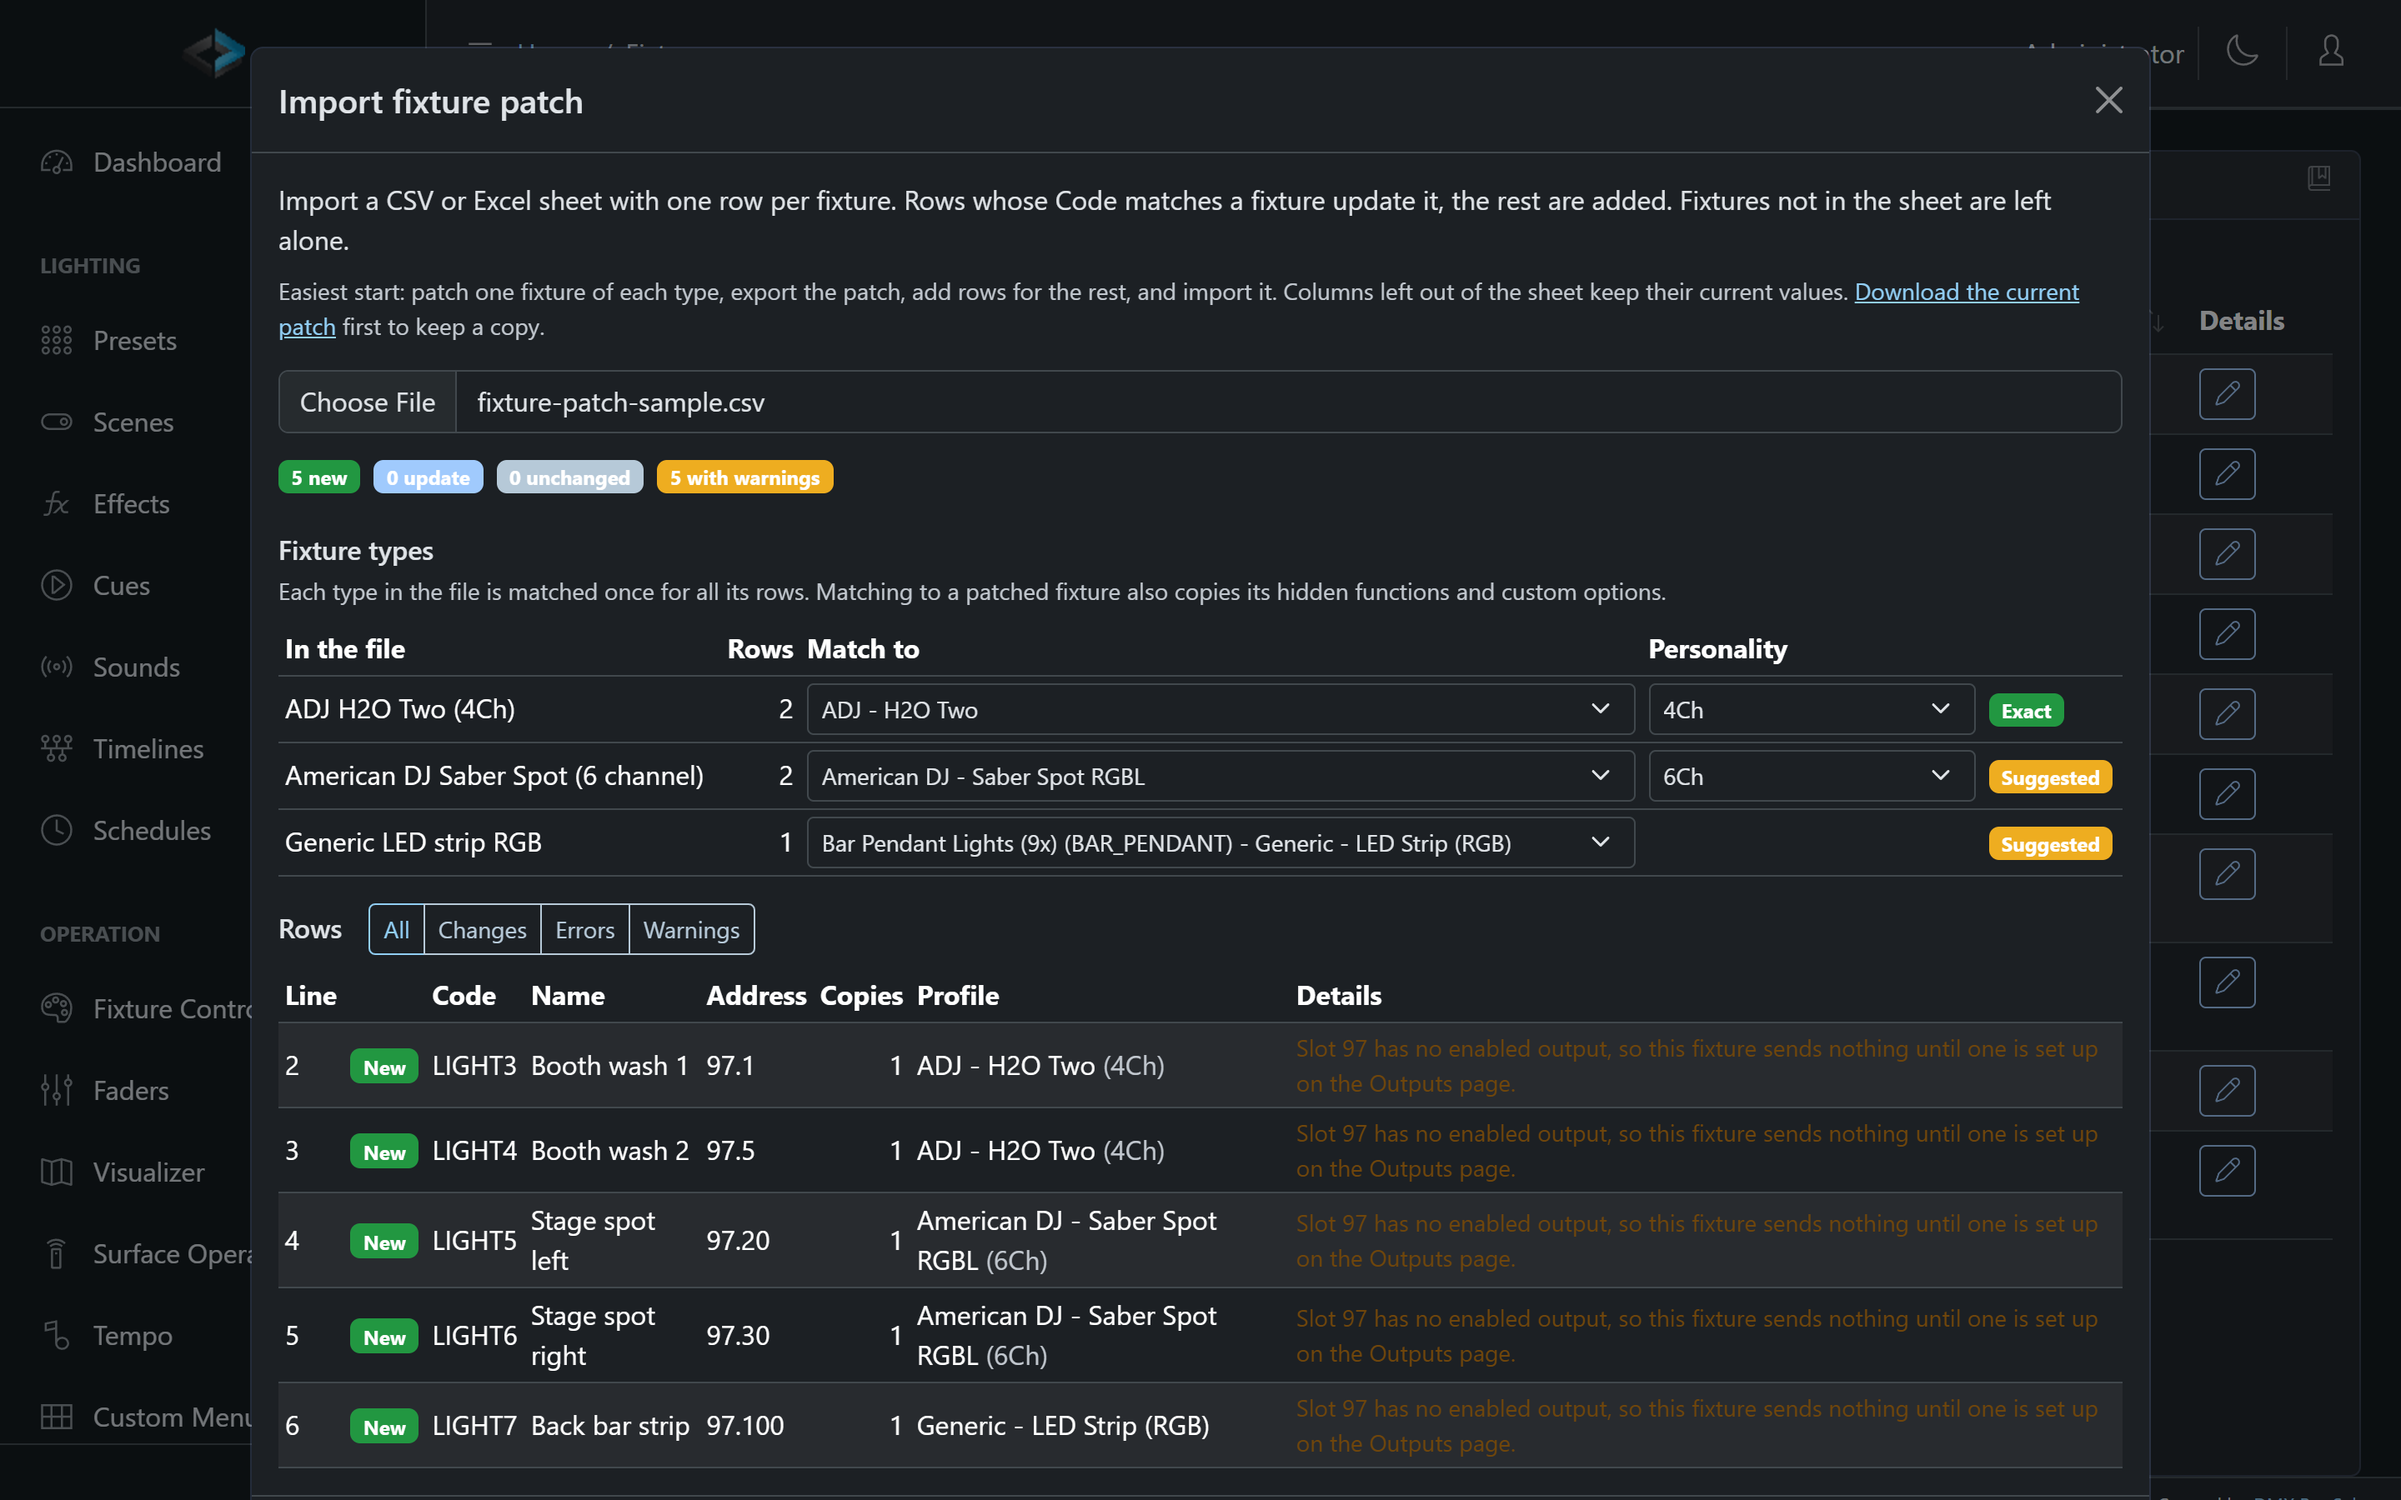
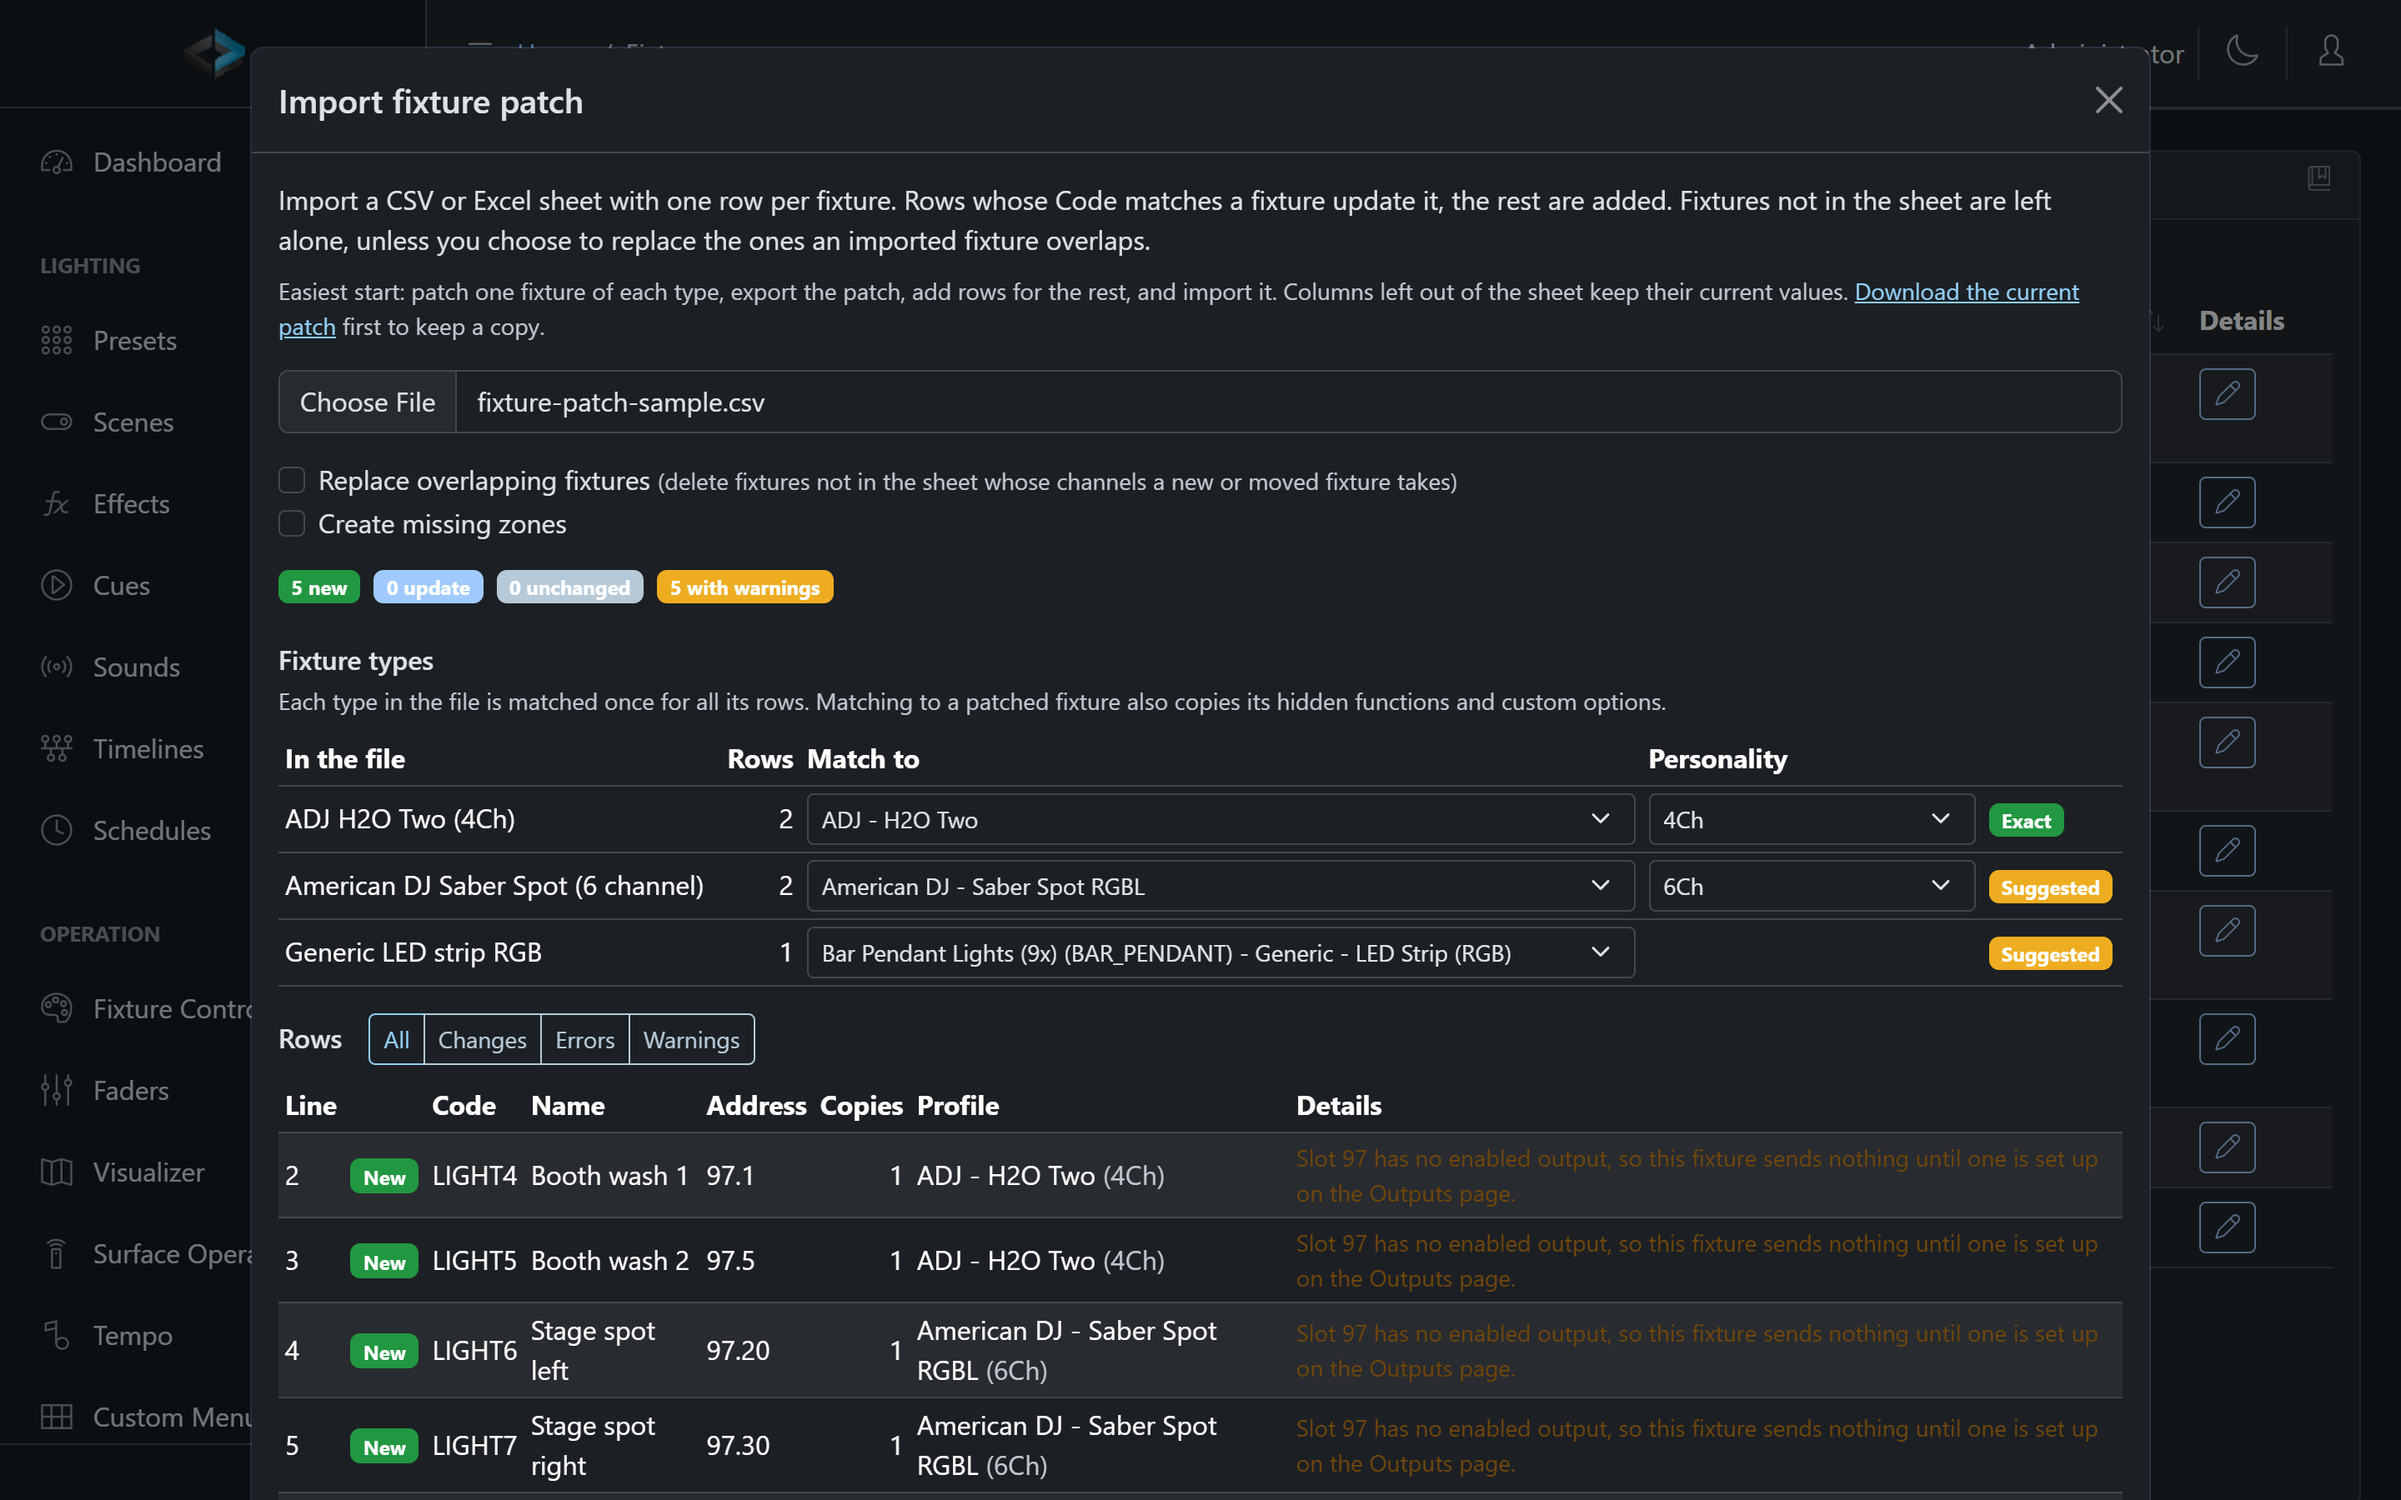
Fixture patch import: Import options section (Replace overlapping fixtures, Create missing zones), forgiving zone name matching and the Zone Name column, release notes row including trimming names and codes on save, and a new dialog screenshot with the options.

diff --git a/src/content/docs/dmx-core-100/lighting/fixture-setup.md b/src/content/docs/dmx-core-100/lighting/fixture-setup.md
@@ -115,7 +115,7 @@ You can export your fixture patch from **Lighting Setup > Fixtures** in the Web 
 - **Excel** - Full export with formatting and totals, suitable for documentation
 - **CSV** - For spreadsheet tools and data processing (UTF-8, opens correctly in Excel)
 
-Each fixture is one row, sorted by address: code, name, enabled, slot and start channel, personality, copies, zone, manufacturer and profile, profile code, copy trims, hidden functions and custom options. The **End Slot**, **End Ch**, **Ch/Fixture** and **Warning** columns are worked out for you (where the fixture ends, and which fixtures share channels); they are only there to read and are ignored on import.
+Each fixture is one row, sorted by address: code, name, enabled, slot and start channel, personality, copies, zone name, manufacturer and profile, profile code, copy trims, hidden functions and custom options. The **End Slot**, **End Ch**, **Ch/Fixture** and **Warning** columns are worked out for you (where the fixture ends, and which fixtures share channels); they are only there to read and are ignored on import.
 
 The export is complete, so it can be edited and [imported](#importing-fixtures) again, on the same unit or another one.
 
@@ -139,15 +139,22 @@ The quickest way to build the sheet is often from your own patch:
 
 - A row whose **Code** matches an existing fixture **updates** that fixture. Columns that are not in the sheet keep their current values, so a sheet with just **Code** and **Name** renames fixtures and changes nothing else
 - Any other row **adds** a new fixture. Leave **Code** empty to get the next free code (`LIGHT12`, `LIGHT13`, ...)
-- Fixtures that are not in the sheet are left alone; import never deletes fixtures
-- **Zones** must already exist (see [Zones](/dmx-core-100/lighting/zones)); a zone name the device doesn't know is an error. An empty Zone cell removes the fixture from its zone
+- Fixtures that are not in the sheet are left alone, unless **Replace overlapping fixtures** is on (see below)
+- **Zone Name** is matched to the device's [Zones](/dmx-core-100/lighting/zones) ignoring case, extra spaces and punctuation, so `dance` finds a zone called `Dance`. A zone the device doesn't have is an error, and the preview suggests the closest name. Turn on **Create missing zones** to create such zones instead (needs the **Edit Zones** permission). An empty Zone Name cell removes the fixture from its zone
 - Nothing is saved until you click **Import** in the dialog, and then everything is saved at once. If any row has an error, nothing is imported
+
+### Import options
+
+Two options above the preview, both off by default:
+
+- **Replace overlapping fixtures** - fixtures that are not in the sheet but whose channels a new or moved fixture in the sheet takes are **deleted**, so you can re-patch a rig without clearing it first. The preview lists them as **Delete** rows with the fixture that replaces them. Overlaps the import doesn't cause (fixtures that already shared channels and don't move) only get a warning
+- **Create missing zones** - zones the sheet names that the device doesn't have are created, each once. The preview lists them under **New zones**
 
 ### The preview
 
 Choosing a file shows what the import will do before anything changes:
 
-- A count of **new**, **update**, **unchanged** and **error** rows, and the rows themselves with what changes for each update (for example `Address 1.1 → 2.101`)
+- A count of **new**, **update**, **delete**, **unchanged** and **error** rows, and the rows themselves with what changes for each update (for example `Address 1.1 → 2.101`)
 - **Errors** block the import: a missing address, slot 0, a channel outside 1-512, an unknown zone or profile, a code used twice in the file
 - **Warnings** do not block it: fixtures sharing channels (with other rows or with fixtures already patched), a slot with no enabled output, a copy trimmed to 0%
 - Columns the import doesn't use are listed, so a misspelled header is easy to spot
@@ -187,13 +194,13 @@ The import also reads patch sheets that were not made by DMX Core:
 | Profile | Profile, Fixture Type, Instrument Type, Model, Type | |
 | Profile Code | Profile Code | Written by the export |
 | Template | Template | Code of a patched fixture to copy |
-| Zone | Zone, Group | Must exist |
+| Zone | Zone Name, Zone, Group | Must exist, unless **Create missing zones** is on |
 | Copy Trims | Copy Trims | `100% 80% 100%`, one per copy |
 | Hidden Functions | Hidden Functions | Separated by `;` |
 | Custom Options | Custom Options | `Name=Value; Name=Value` |
 
 :::tip
-After an import, the dialog offers **the patch from before the import** as a CSV. Importing it again puts back every fixture the import changed; fixtures it added stay and can be deleted by hand. **Download the current patch** in the dialog saves the same thing beforehand.
+After an import, the dialog offers **the patch from before the import** as a CSV. Importing it again puts back every fixture the import changed or deleted; fixtures and zones it added stay and can be deleted by hand. **Download the current patch** in the dialog saves the same thing beforehand.
 :::
 
 ## Multi-Function Fixtures

diff --git a/src/content/docs/dmx-core-100/release-notes.md b/src/content/docs/dmx-core-100/release-notes.md
@@ -5,6 +5,7 @@ description: Release notes and highlights
 
 | Version | Date | Highlights |
 |---------|------|------------|
+| v2026.1026.x | 10/26/2026 | [Fixture patch import](/dmx-core-100/lighting/fixture-setup#import-options): zone names match ignoring case, extra spaces and punctuation (a zone saved as "Dance " is found by `Dance`), an unknown zone suggests the closest name, and the export calls the column **Zone Name**. Two new options: **Create missing zones**, and **Replace overlapping fixtures**, which deletes fixtures not in the sheet whose channels an imported fixture takes, so a rig can be re-patched without clearing it first. Names, codes and labels are now trimmed when saved, everywhere: a trailing space no longer makes a second "Dance" zone |
 | v2026.1026.x | 10/26/2026 | Fixture profiles hold more of the fixture: a **type** (PAR, spot, moving head, bar, strip, matrix, ...), the fixture's **beams** (pixels or cells, in rows or rings) and which beam each channel drives, **inverted** channels (speed fast to slow), a **fallback value** for channels nothing controls (movement speed fastest instead of 0), color wheel **swatches**, and new functions for **CMY** color mixing, **gobo**, **prism**, **iris** and **frost**. Lightkey imports now keep gobo, prism and color filter channels, the pixel layout and per-pixel channels, and the profile [details page](/dmx-core-100/lighting/fixture-setup#managing-profiles) shows the type, beams, beam per channel, inverted, fallback and swatches. The [AI profile format](/dmx-core-100/lighting/ai-fixture-profiles#file-format-reference) has the same new fields. |
 | v2026.1026.x | 10/26/2026 | Touchscreen dialogs: **OK** and **Cancel** are the same large, touch-sized button in every dialog and message box (Cancel used to be the small default size), and OK on the sign-in PIN dialog no longer switches to a smaller accent style |
 | v2026.1026.x | 10/26/2026 | New [Faders page](/dmx-core-100/scheduling-automation/custom-menus#faders-page) custom menu item: a page of faders for exactly the lights and levels you pick - fixture brightness with a color chip and color picker, a music volume or other Control Value level, the master or a zone. On the touchscreen it shows as many faders as fit with arrows for the rest, works with the rotary knob, and has a **Release** for just its lights; in the Web UI it opens the same faders, and on a menu available to guests, guests get full control of those fixtures and nothing else. On the touchscreen each fixture's strip shows what controls it: **Direct**, a preset's code, **Ambient**, or **FX** while an effect runs. A menu with a Faders page item is skipped by older firmware, so update every unit before adding one |
